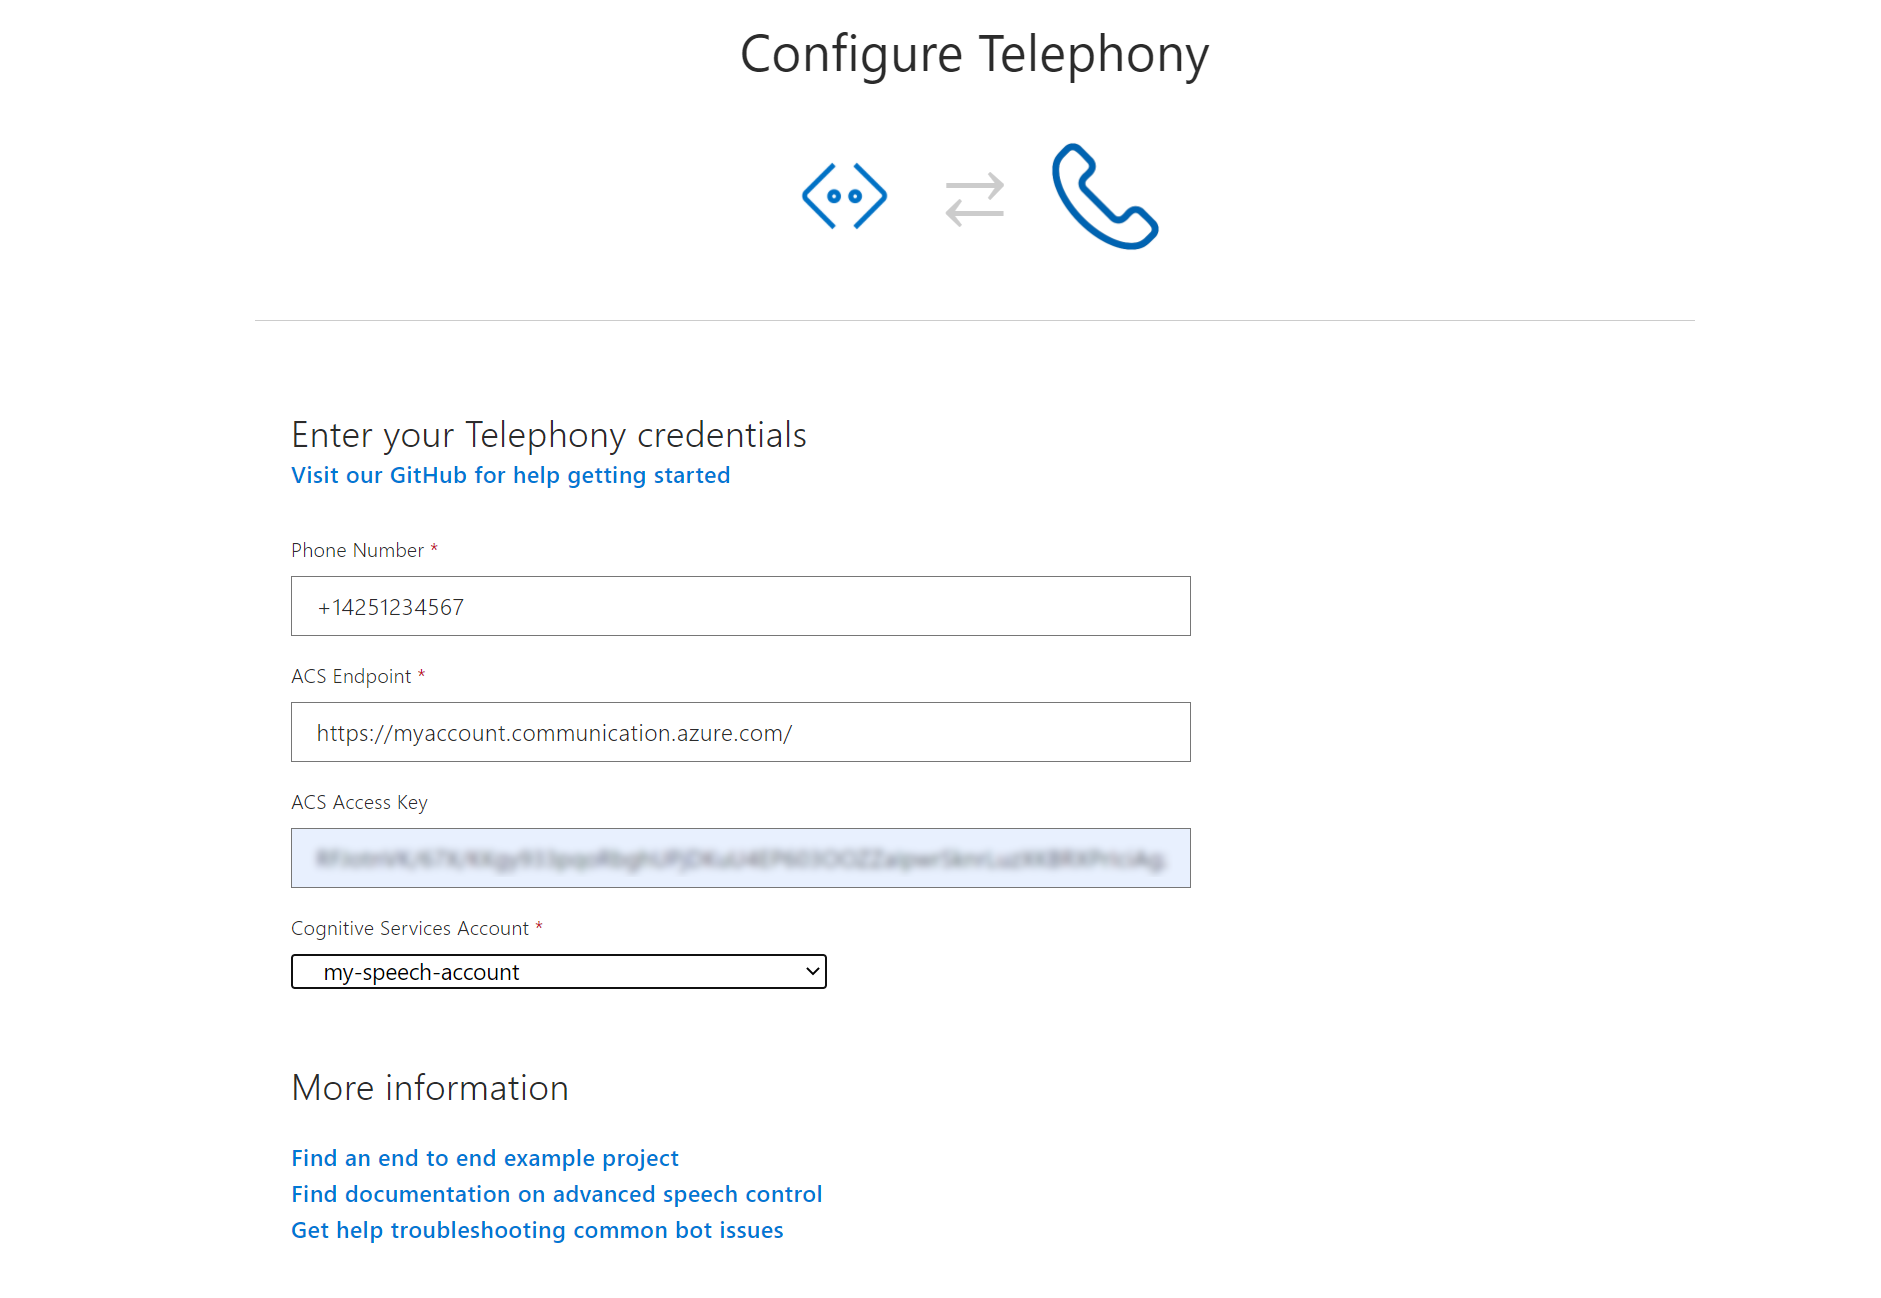
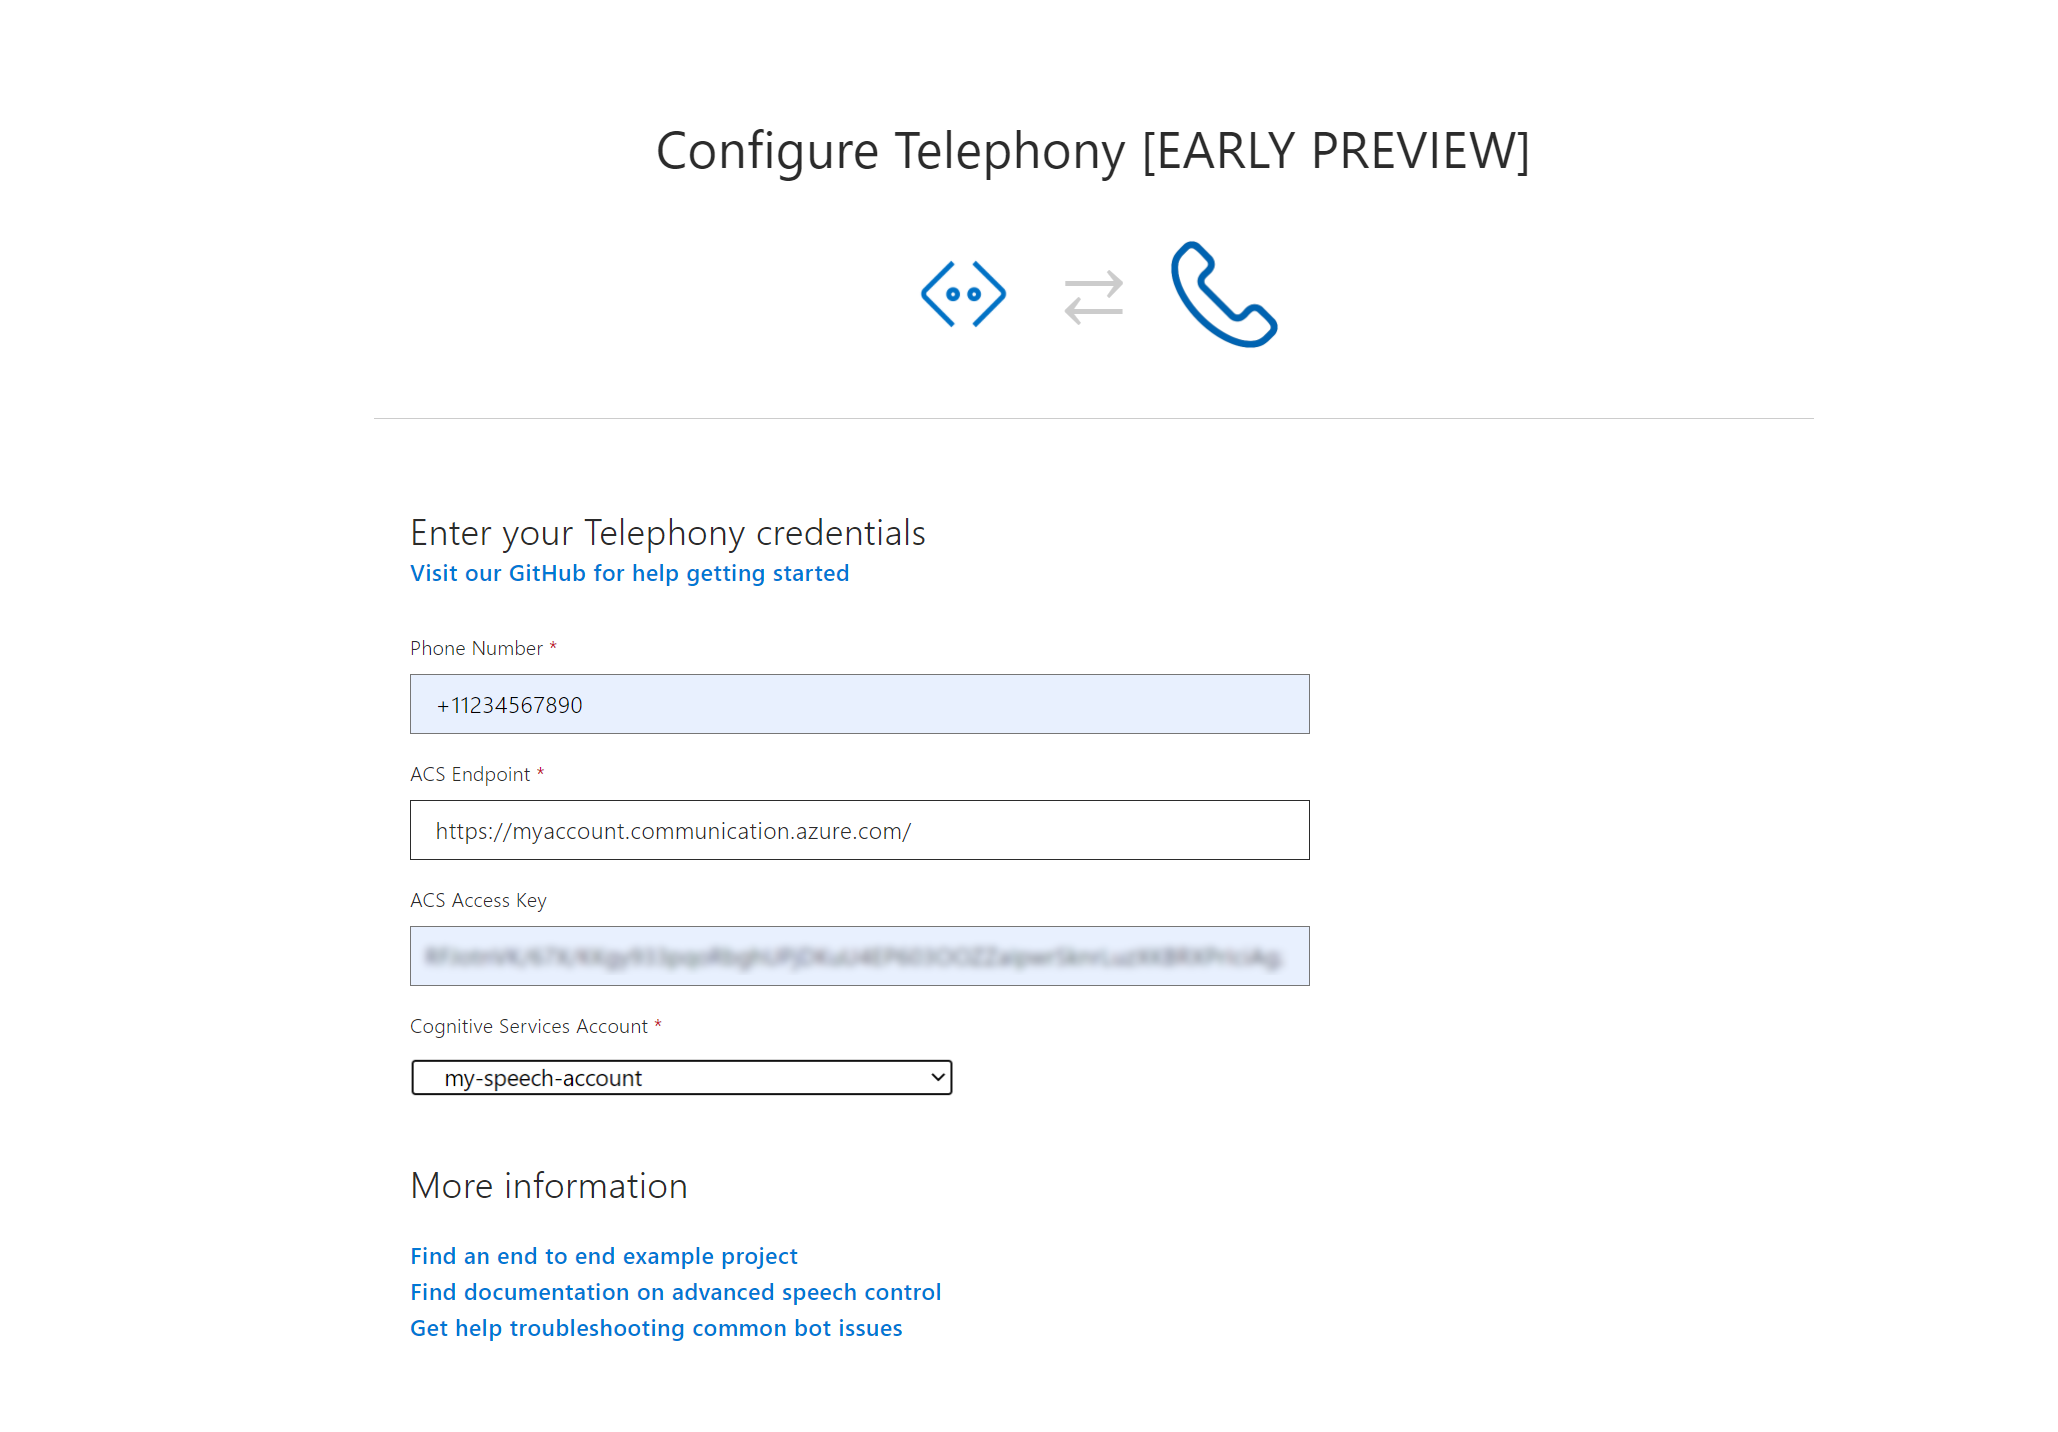
Update instructions

diff --git a/CreateSpeechResource.md b/CreateSpeechResource.md
@@ -2,6 +2,8 @@
 
 Now that you have the bot, we need to give it ability to understand human voice (speech-to-text) and speak (text-to-speech). For that that, you will create a Speech resource in Azure.
 
+**Please note that currently Telephony Channel is only supported in West US 2 and East US Azure regions.**
+
 Go to the [Azure portal](https://portal.azure.com) and select **Create a resource** from the left navigation:
 
 ![](images/create-a-bot/c006-create-new-resource-again.png)
@@ -19,7 +21,7 @@ You'll be prompted to provide some information:
    * For **Subscription**, choose the appropriate subscription
    * For **Location**, choose the appropriate region.
    
-Ideally, this should be same as Bot's Azure region for best latencies. Please note that currently Telephony Channel is only supported in West US 2 and East US Azure regions.
+Ideally, this should be same as Bot's Azure region for best latencies. 
         
    * For **Pricing tier**, select **F0** (Free Tier) to start with. Note that usage in Free tier is subjected to [Free tier Limits](https://azure.microsoft.com/en-us/pricing/details/cognitive-services/speech-services/)
    * For **Resource group**, select an existing resource group or create a new resource group.
@@ -27,20 +29,6 @@ After you've entered all required information, click **Create**.
 
 ![](images/create-a-bot/c009-fill-out-speech-settings.png)
 
-It may take a few minutes to create your resource. After the deployment is complete, navigate to the Speech resource you created:
-
-![](images/create-a-bot/c011-go-to-speech-services.png)
-
-Note down **Cognitive Service Subscription Key** for this resource. You can access these keys at any time from your resource's **Overview** (Manage keys) or **Keys**:
-
-![](images/create-a-bot/c012-copy-key.png)
-
-Also note the region part of the endpoint URL:
-
-![](images/create-a-bot/c013-note-the-region.png)
-
-This is the service that will enable your bot to understand spoken words and speak back to users on the phone using one of the 80+ human voices.  You should now head back to the bot you created earlier:
-
-![](images/create-a-bot/c014-go-to-the-bot.png)
+It may take a few minutes to create your resource. 
 
 **Next step**:  [Enable Telephony as one of the channels in your bot](EnableTelephony.md)

diff --git a/EnableTelephony.md b/EnableTelephony.md
@@ -23,6 +23,7 @@ Configure the channel with following information:
 * Azure Communication Service Access Key and Endpoint - Acquired while [creating a Azure Communication Services Resource](https://docs.microsoft.com/en-us/azure/communication-services/quickstarts/create-communication-resource).
 * Cognitive Service Subscription account created during [Cognitive Service account creation](CreateSpeechResource.md).
 
+Make sure to specify the Telephony number in the format shown below. (+11234567890)
 
 ![](images/create-a-bot/c017-fill-out-settings-click-save.png)
 
